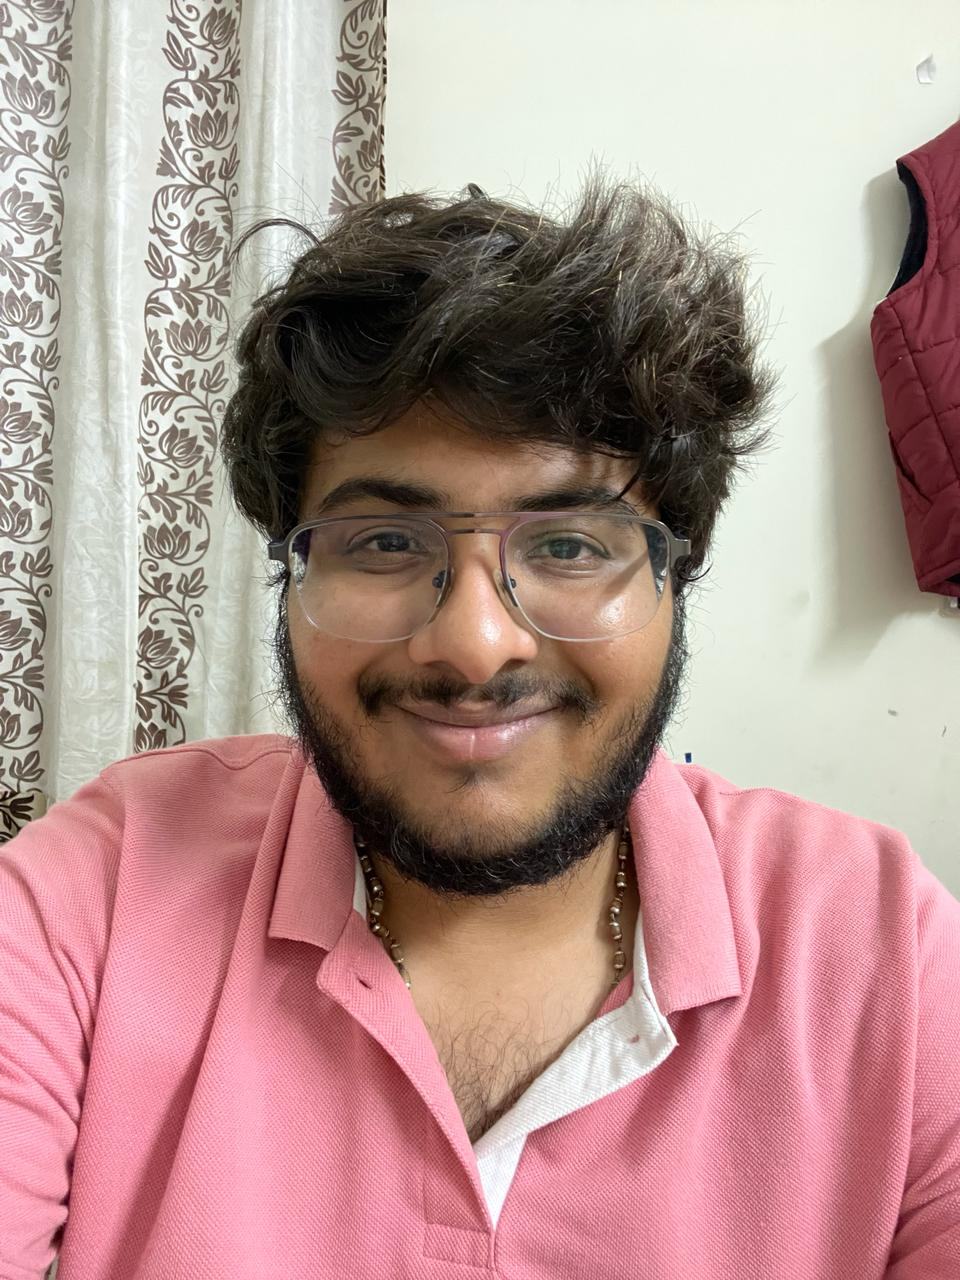
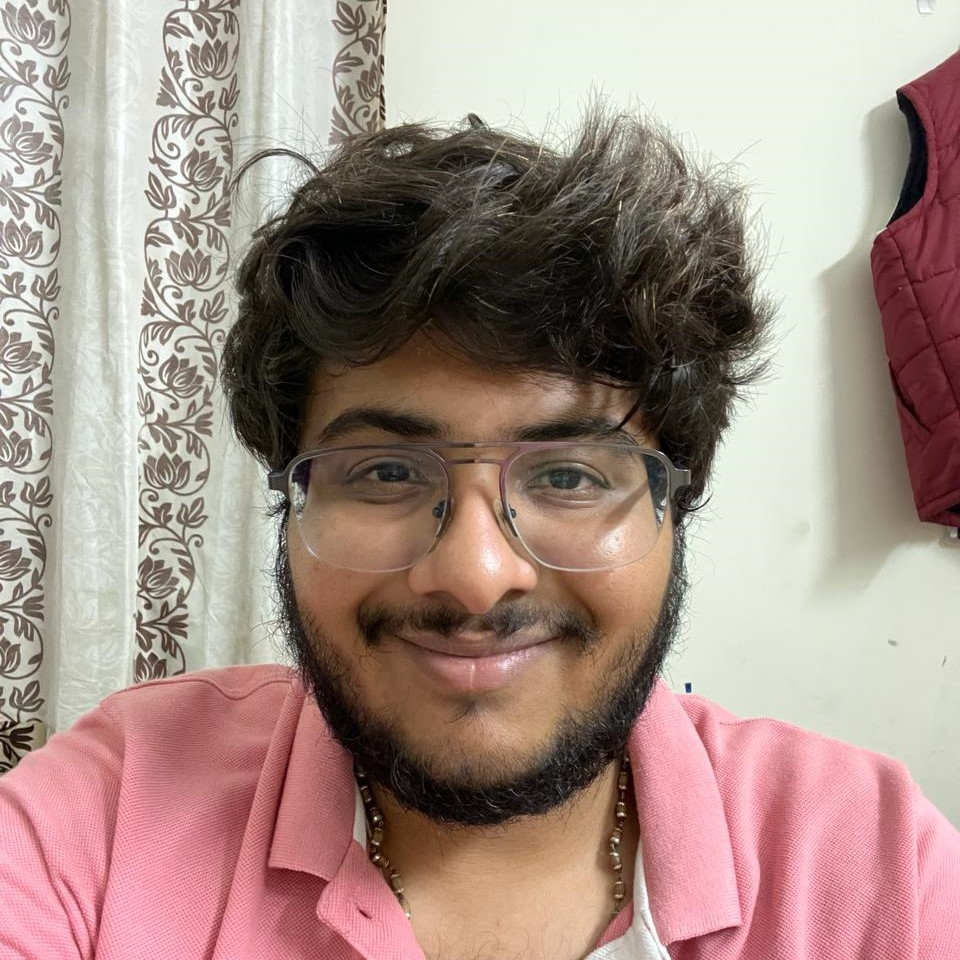
Setup github pages

diff --git a/src/components/Header.js b/src/components/Header.js
@@ -1,7 +1,7 @@
 import React from "react";
 import CarouselSlider from "./CarouselSlider";
 import "./header.css";
-import ProfileImage from "../resources/img_avatar.png";
+import ProfileImage from "../resources/mypic.jpeg";
 
 function Header() {
     return (
